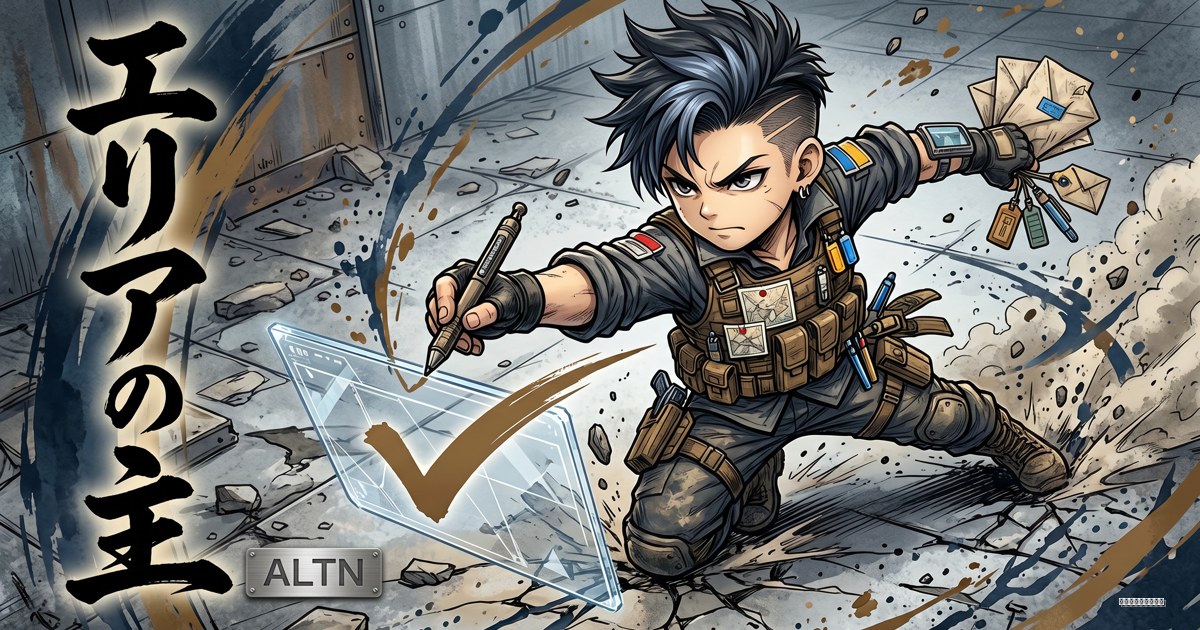
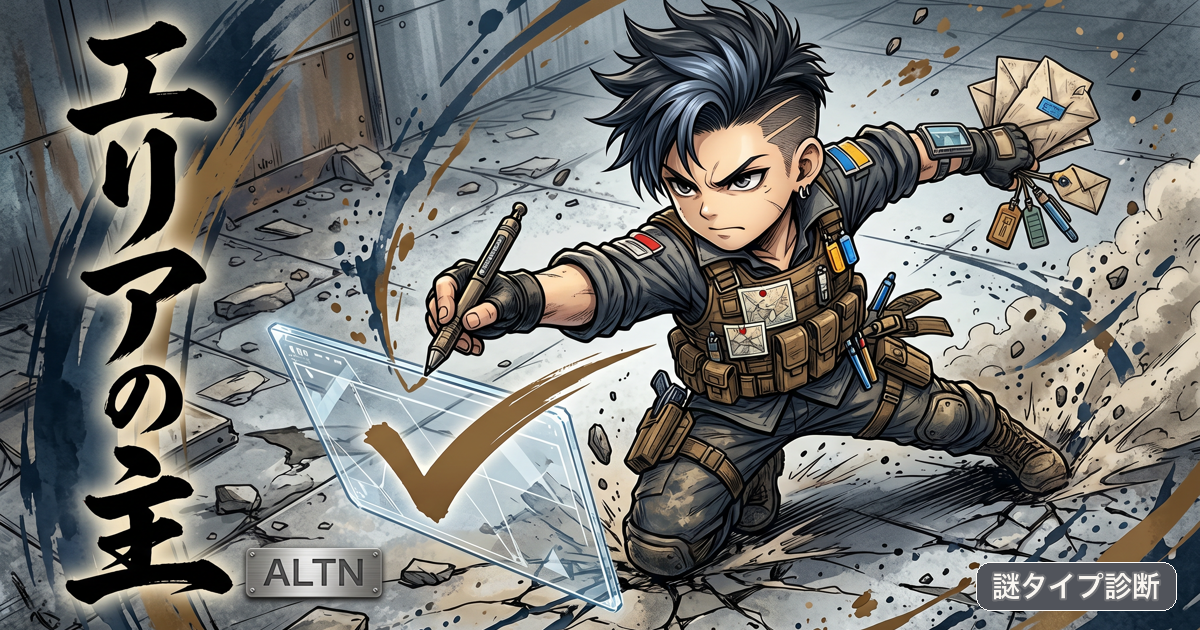
Update OGP images and modify brand label for consistency
- Replaced multiple OGP images (ABHC, ABHN, ABTC, ABTN, ALHC, ALHN, ALTC, ALTN, DBHC, DBHN, DBTC, DBTN, DLHC, DLHN, DLTC, DLTN) with updated versions to enhance visual quality.
- Changed the brand label from `マダミスタイプ診断` to `謎タイプ診断` across various documentation and scripts for consistency in branding.

Changed region(s): [[0.8017, 0.8746, 0.9867, 0.9952]]

diff --git a/skills/madamistype-type-ogp-images/scripts/ogp_compositor.py b/skills/madamistype-type-ogp-images/scripts/ogp_compositor.py
@@ -6,12 +6,18 @@ from typing import Any
 
 TARGET_SIZE = (1200, 630)
 FONT_CANDIDATES = [
+    Path("/System/Library/Fonts/ヒラギノ角ゴシック W6.ttc"),
+    Path("/System/Library/Fonts/ヒラギノ角ゴシック W3.ttc"),
+    Path("/Library/Fonts/Arial Unicode.ttf"),
+    Path("/System/Library/Fonts/Supplemental/Arial Unicode.ttf"),
     Path("C:/Windows/Fonts/NotoSansJP-VF.ttf"),
     Path("C:/Windows/Fonts/YuGothB.ttc"),
     Path("C:/Windows/Fonts/YuGothM.ttc"),
     Path("C:/Windows/Fonts/meiryob.ttc"),
     Path("C:/Windows/Fonts/meiryo.ttc"),
     Path("C:/Windows/Fonts/msgothic.ttc"),
+    Path("/usr/share/fonts/opentype/noto/NotoSansCJK-Regular.ttc"),
+    Path("/usr/share/fonts/opentype/noto/NotoSansCJK-Bold.ttc"),
 ]
 
 
@@ -54,7 +60,7 @@ def compose_ogp(
     output_path: Path,
     type_data: dict[str, Any],
     title_placement: str,
-    brand_label: str = "マダミスタイプ診断",
+    brand_label: str = "謎タイプ診断",
 ) -> dict[str, Any]:
     image, image_draw, _ = _import_pillow()
 
@@ -62,15 +68,38 @@ def compose_ogp(
     composed = _cover_resize(hero, TARGET_SIZE)
     draw = image_draw.Draw(composed, "RGBA")
 
-    brand_font, brand_font_path = _load_font(24)
+    brand_font, brand_font_path = _load_font(28)
     text_bbox = draw.textbbox((0, 0), brand_label, font=brand_font)
     text_width = text_bbox[2] - text_bbox[0]
     text_height = text_bbox[3] - text_bbox[1]
-    text_x = TARGET_SIZE[0] - text_width - 36
-    text_y = TARGET_SIZE[1] - text_height - 28
+    badge_padding_x = 16
+    badge_padding_y = 10
+    badge_x = TARGET_SIZE[0] - text_width - (badge_padding_x * 2) - 24
+    badge_y = TARGET_SIZE[1] - text_height - (badge_padding_y * 2) - 20
+    badge_box = (
+        badge_x,
+        badge_y,
+        badge_x + text_width + (badge_padding_x * 2),
+        badge_y + text_height + (badge_padding_y * 2),
+    )
+    text_x = badge_x + badge_padding_x
+    text_y = badge_y + badge_padding_y - text_bbox[1]
 
-    draw.text((text_x + 2, text_y + 2), brand_label, font=brand_font, fill=(0, 0, 0, 120))
-    draw.text((text_x, text_y), brand_label, font=brand_font, fill=(248, 245, 240, 220))
+    draw.rounded_rectangle(
+        badge_box,
+        radius=14,
+        fill=(14, 18, 28, 184),
+        outline=(248, 245, 240, 96),
+        width=1,
+    )
+    draw.text(
+        (text_x, text_y),
+        brand_label,
+        font=brand_font,
+        fill=(248, 245, 240, 236),
+        stroke_width=2,
+        stroke_fill=(10, 12, 18, 150),
+    )
 
     output_path.parent.mkdir(parents=True, exist_ok=True)
     composed.save(output_path, format="PNG")

diff --git a/skills/madamistype-type-ogp-images/scripts/generate_type_ogp_batch.py b/skills/madamistype-type-ogp-images/scripts/generate_type_ogp_batch.py
@@ -72,7 +72,7 @@ def parse_args() -> argparse.Namespace:
     parser.add_argument("--resolution", default="2K", help="fal.ai resolution. Default: 2K")
     parser.add_argument("--poll-interval", type=int, default=8, help="Polling interval in seconds. Default: 8")
     parser.add_argument("--select", help="Manual candidate overrides such as OFEI:2,TRLP:4")
-    parser.add_argument("--brand-label", default="マダミスタイプ診断", help="Small brand label added at the bottom-right of the final OGP.")
+    parser.add_argument("--brand-label", default="謎タイプ診断", help="Small brand label added at the bottom-right of the final OGP.")
     parser.add_argument(
         "--reference-url-base",
         help=(

diff --git a/skills/madamistype-type-ogp-images/SKILL.md b/skills/madamistype-type-ogp-images/SKILL.md
@@ -14,7 +14,7 @@ Treat these as the only canonical inputs:
 - `data/types/*.json`
 - `public/types/{typeCode}_chibi.png`
 
-The goal is not to paste static chibi art into a template. Regenerate each type as the same character in a much more aggressive, share-stopping pose, and have the fal.ai image model render the type text inside the design itself. The local compositor should only add a small `マダミスタイプ診断` label at the bottom-right.
+The goal is not to paste static chibi art into a template. Regenerate each type as the same character in a much more aggressive, share-stopping pose, and have the fal.ai image model render the type text inside the design itself. The local compositor should only add a small `謎タイプ診断` label at the bottom-right.
 
 If the overall design or acceptance criteria change, read [type-ogp-image-spec.md](../../docs/type-ogp-image-spec.md).
 
@@ -96,7 +96,7 @@ The model should generate the near-final OGP image, including the exact `typeNam
 
 Always use the compositor to add:
 
-- the small `マダミスタイプ診断` brand label at the bottom-right
+- the small `謎タイプ診断` brand label at the bottom-right
 
 Read [references/ogp-layout-rules.md](./references/ogp-layout-rules.md) when adjusting final layout, safe areas, or type treatment.
 
@@ -143,7 +143,7 @@ Use for default candidate choice and manual override parsing.
 
 ### `scripts/ogp_compositor.py`
 
-Use for deterministic `1200x630` output and the small bottom-right `マダミスタイプ診断` label.
+Use for deterministic `1200x630` output and the small bottom-right `謎タイプ診断` label.
 
 ### `scripts/write_manifest.py`
 
@@ -157,7 +157,7 @@ Use for JSON and text artifact writing plus batch-report assembly.
 - Preserve character identity first, then push pose intensity as far as possible
 - Prefer prompt changes over editing `data/types/*.json` unless the user asks to change source data
 - Have the model render the final `typeName` and `typeCode` inside the design
-- Keep local post-processing text limited to the bottom-right `マダミスタイプ診断` label
+- Keep local post-processing text limited to the bottom-right `謎タイプ診断` label
 
 ## References
 

diff --git a/skills/madamistype-type-ogp-images/references/ogp-layout-rules.md b/skills/madamistype-type-ogp-images/references/ogp-layout-rules.md
@@ -14,7 +14,7 @@ Keep local compositor text minimal:
 
 - model-rendered primary: `typeName`
 - model-rendered secondary: `typeCode`
-- compositor-added tertiary: small `マダミスタイプ診断` label at the bottom-right
+- compositor-added tertiary: small `謎タイプ診断` label at the bottom-right
 
 Do not add explanation copy inside the final OGP unless the user explicitly asks for a different treatment.
 
@@ -46,7 +46,7 @@ The compositor should:
 - crop the hero art to cover the full frame
 - preserve the most expressive part of the pose
 - avoid covering the model-rendered title text
-- add only the small bottom-right `マダミスタイプ診断` label
+- add only the small bottom-right `謎タイプ診断` label
 
 ## Brand Direction
 

diff --git a/skills/madamistype-type-ogp-images/references/io-schema.md b/skills/madamistype-type-ogp-images/references/io-schema.md
@@ -89,6 +89,6 @@ public/ogp/types/
 - `selected/hero.png`: chosen candidate copied into a stable path
 - `selection.json`: machine-readable selected candidate metadata
 - `selection-note.txt`: short human-readable selection rationale
-- `final/ogp.png`: final OGP image with only the small bottom-right `マダミスタイプ診断` label added locally
+- `final/ogp.png`: final OGP image with only the small bottom-right `謎タイプ診断` label added locally
 - `final/meta.json`: per-type execution summary
 - `batch-report.json`: batch-level status report
